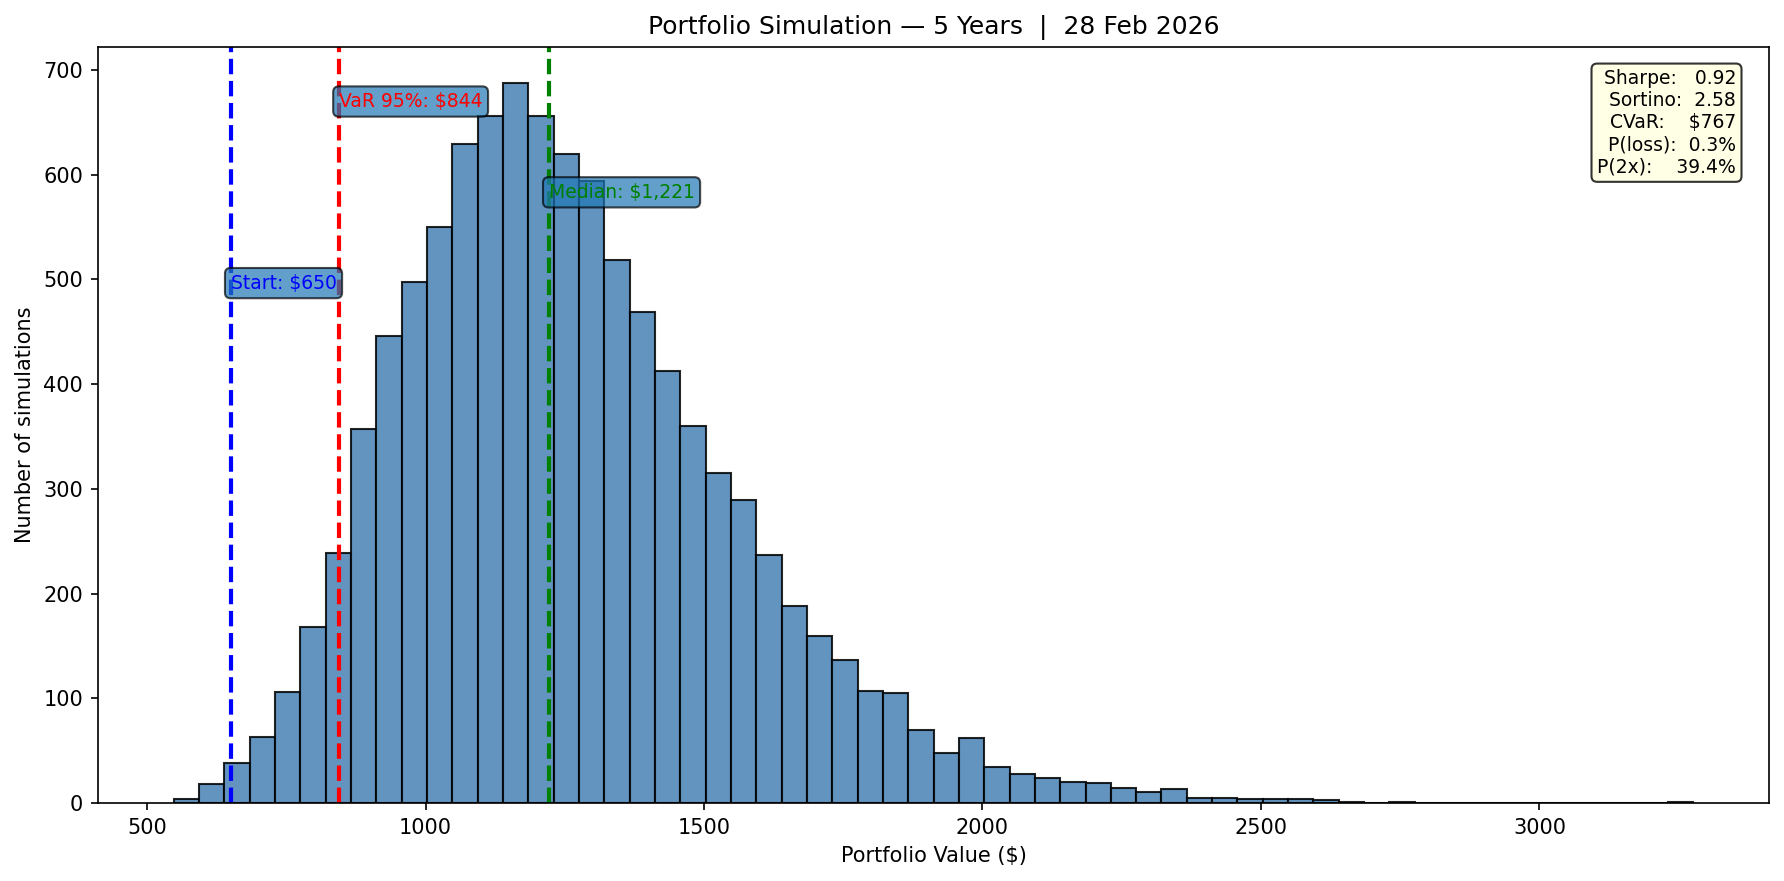
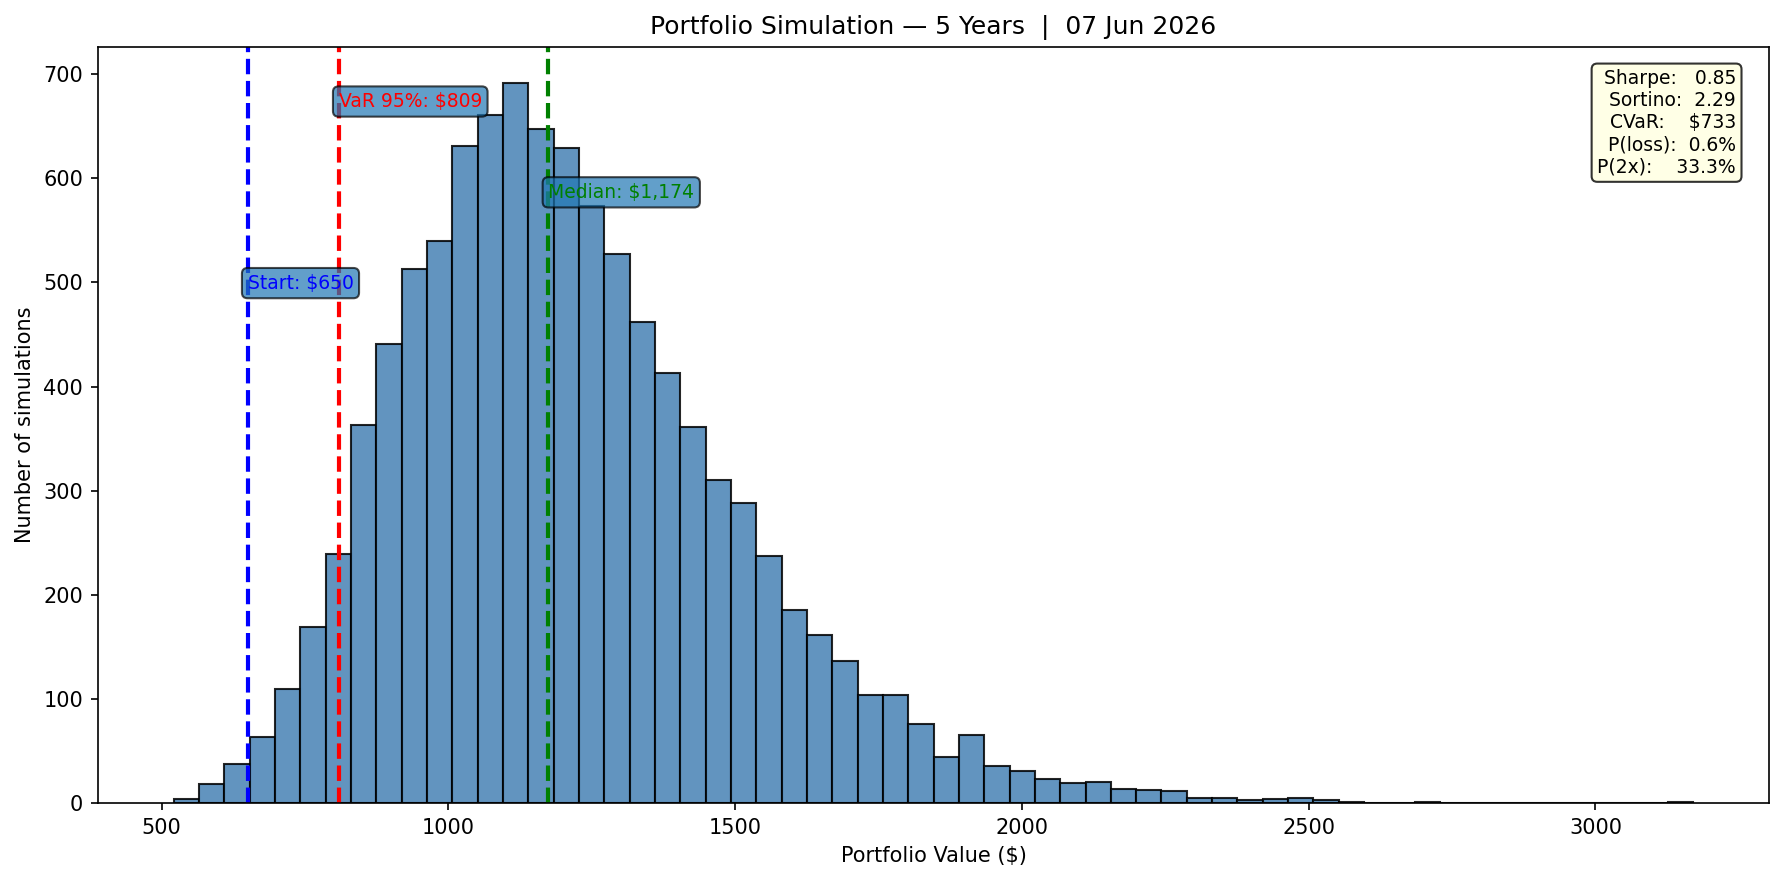
Changed Assets and redistributed

diff --git a/python_mc.py b/python_mc.py
@@ -4,29 +4,27 @@ import yfinance as yf
 from datetime import datetime, timedelta
 
 allocations = {
-    "AAPL":    0.0274,
-    "NVDA":    0.0274,
-    "MSFT":    0.0274,
-    "LMT":     0.0526,
-    "JPM":     0.0501,
-    "JNJ":     0.0501,
-    "ASML":    0.0275,
-    "BRK-B":   0.0018,
-    "AMZN":    0.0020,
-    "VWCE.DE": 0.2721,
-    "VUAA.L":  0.1332,
-    "EIMI.L":  0.0762,
-    "VHYL.L":  0.0774,
-    "TRET.AS": 0.0091,
-    "4GLD.DE": 0.0350,
-    "VAGF.DE": 0.0499,
-    "IWDP.L":  0.0717,
-    "WSML.L":  0.0091,
+    "VWCE.DE": 0.3577,
+    "VUAA.L":  0.0988,
+    "MVOL.L":  0.0846,
+    "VAGF.DE": 0.0694,
+    "WQDV.L":  0.0529,
+    "4GLD.DE": 0.0522,
+    "VHYL.L":  0.0451,
+    "EIMI.L":  0.0445,
+    "IWDP.L":  0.0418,
+    "LMT":     0.0307,
+    "JNJ":     0.0292,
+    "JPM":     0.0292,
+    "ASML":    0.0160,
+    "AAPL":    0.0160,
+    "NVDA":    0.0160,
+    "MSFT":    0.0160,
 }
 
 num_simulations    = 10000
 time_horizon       = 5
-initial_investment = 650
+initial_investment = 944.34
 risk_free_rate     = 0.03
 lookback_years     = 5
 np.random.seed(0)
@@ -84,8 +82,8 @@ mu = np.log(1 + return_list) - 0.5 * vol_list ** 2
 n = len(assets)
 corr = np.eye(n)
 
-stocks = {"AAPL", "NVDA", "MSFT", "LMT", "JPM", "JNJ", "ASML", "BRK-B", "AMZN"}
-etfs   = {"VWCE.DE", "VUAA.L", "EIMI.L", "VHYL.L", "IWDP.L", "WSML.L", "TRET.AS"}
+stocks = {"AAPL", "NVDA", "MSFT", "LMT", "JPM", "JNJ", "ASML"}
+etfs   = {"VWCE.DE", "VUAA.L", "MVOL.L", "WQDV.L", "VHYL.L", "EIMI.L", "IWDP.L"}
 bonds  = {"VAGF.DE"}
 gold   = {"4GLD.DE"}
 